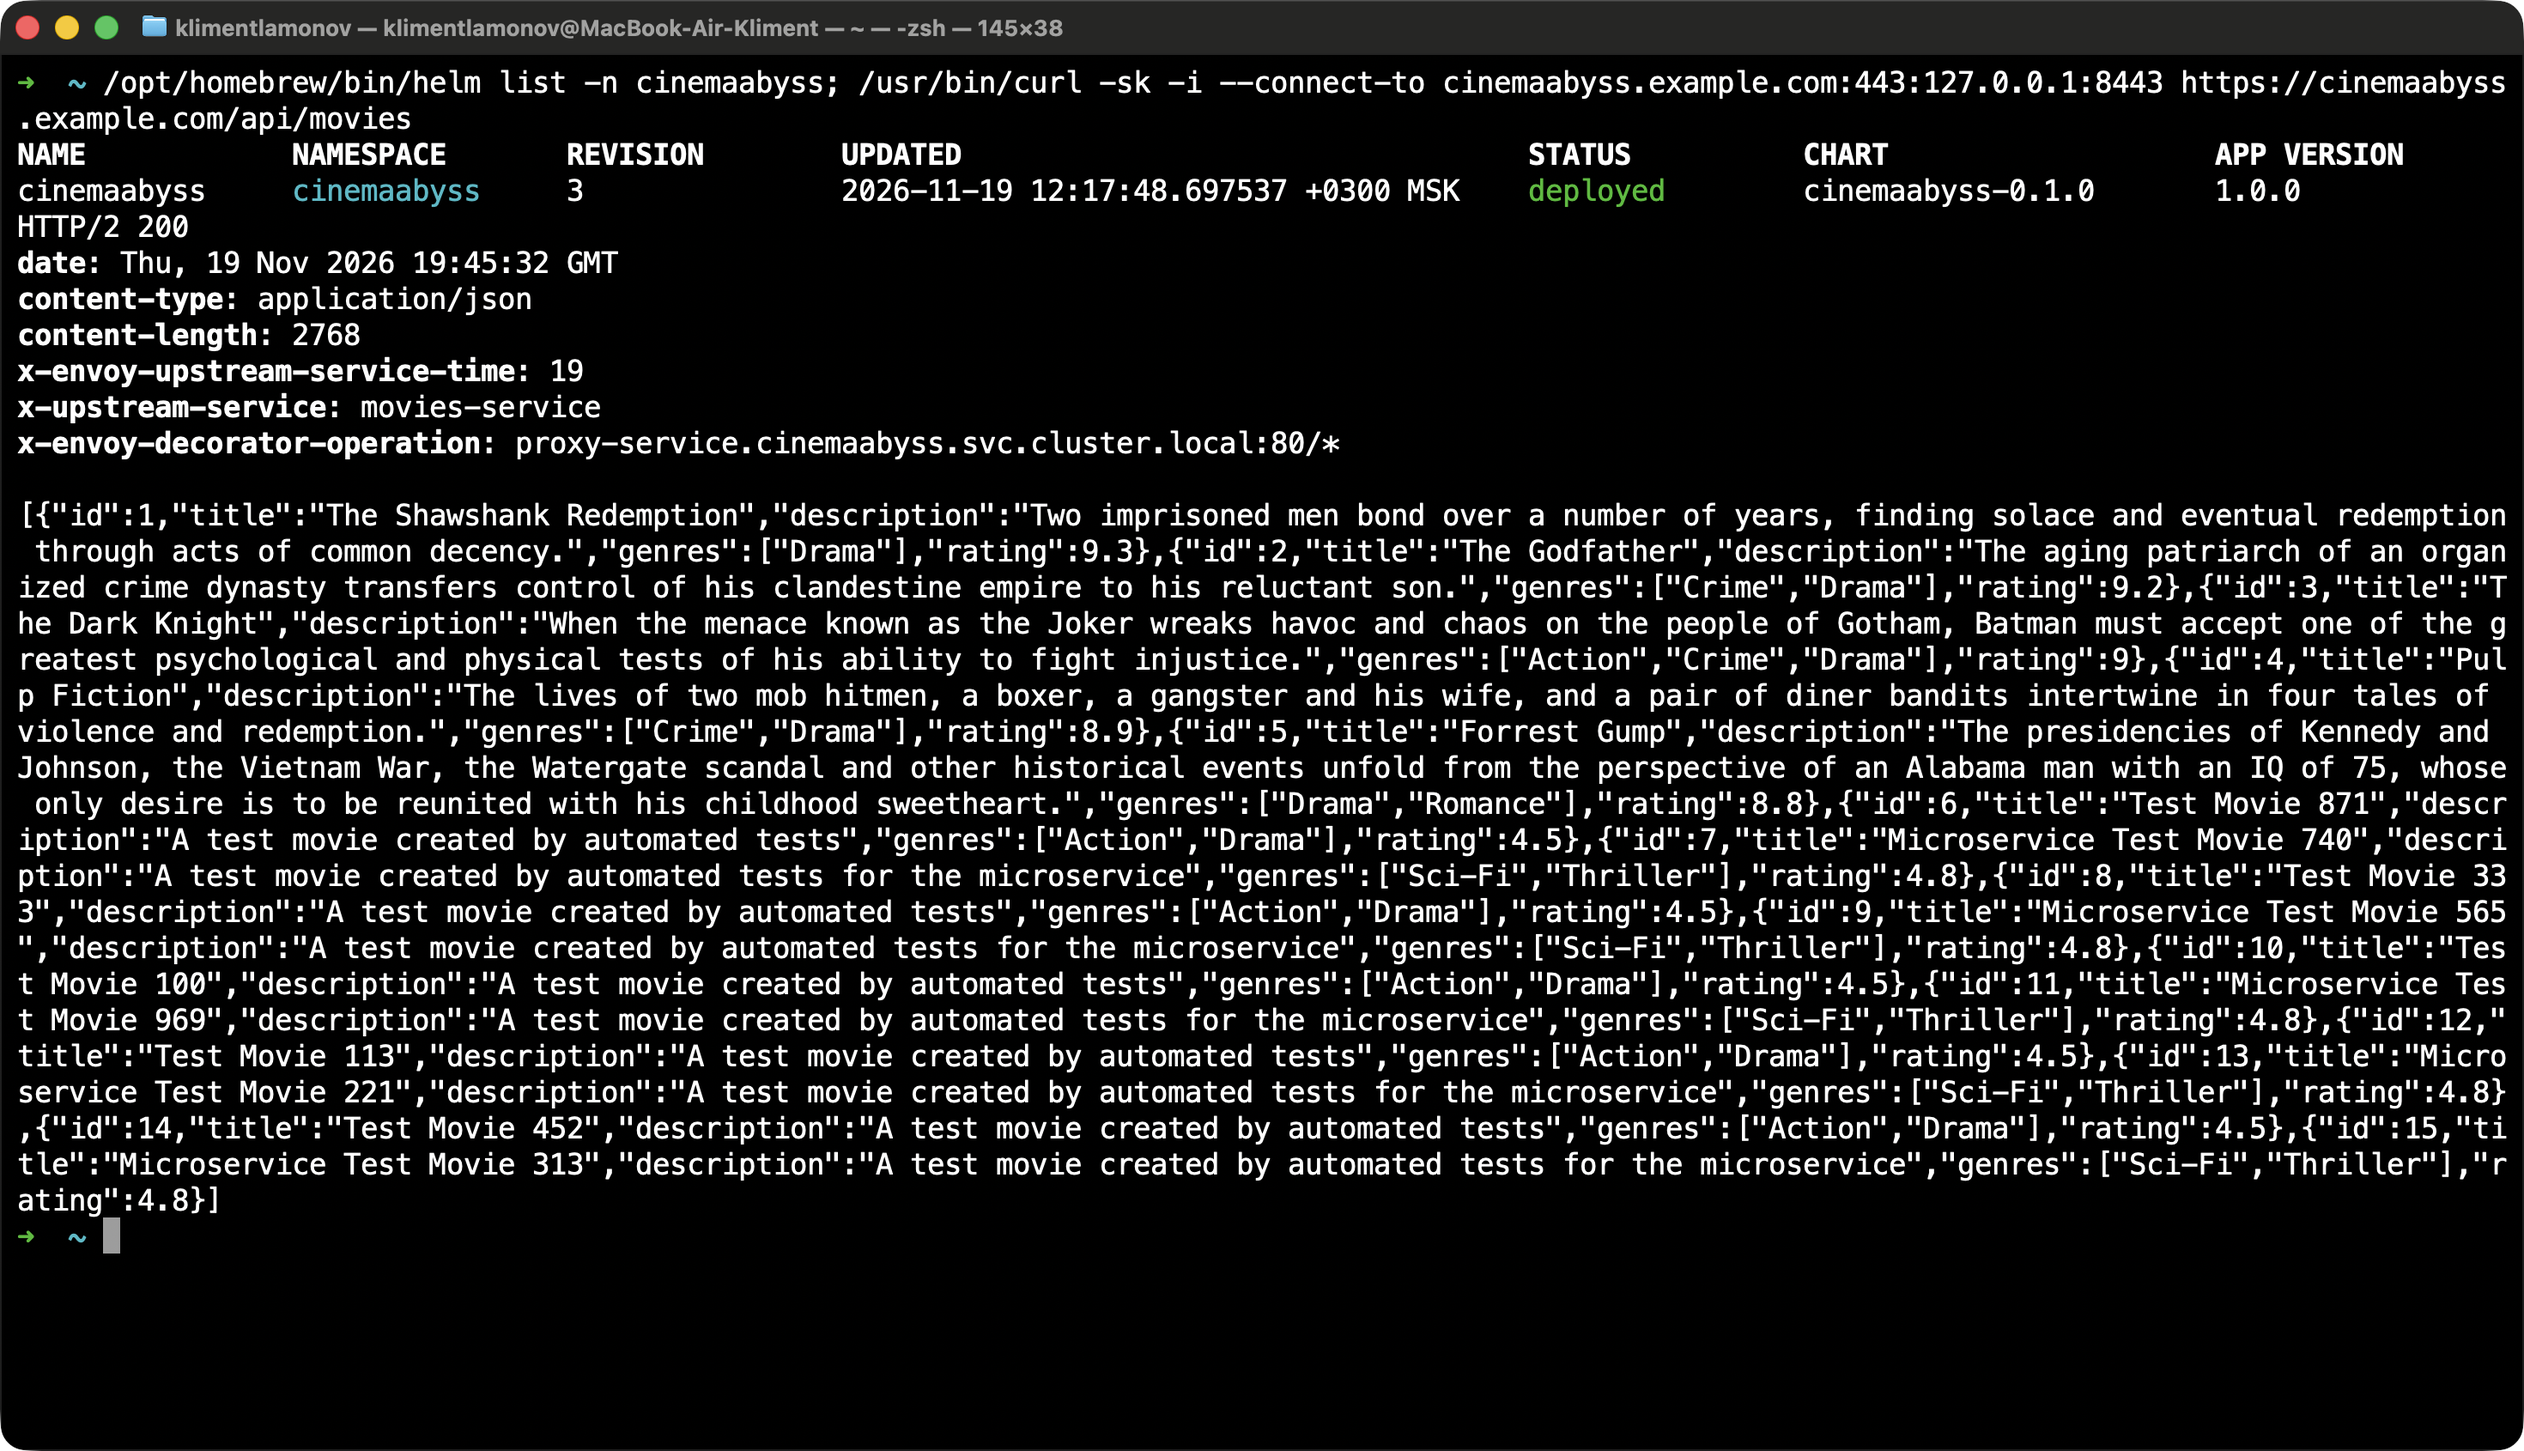
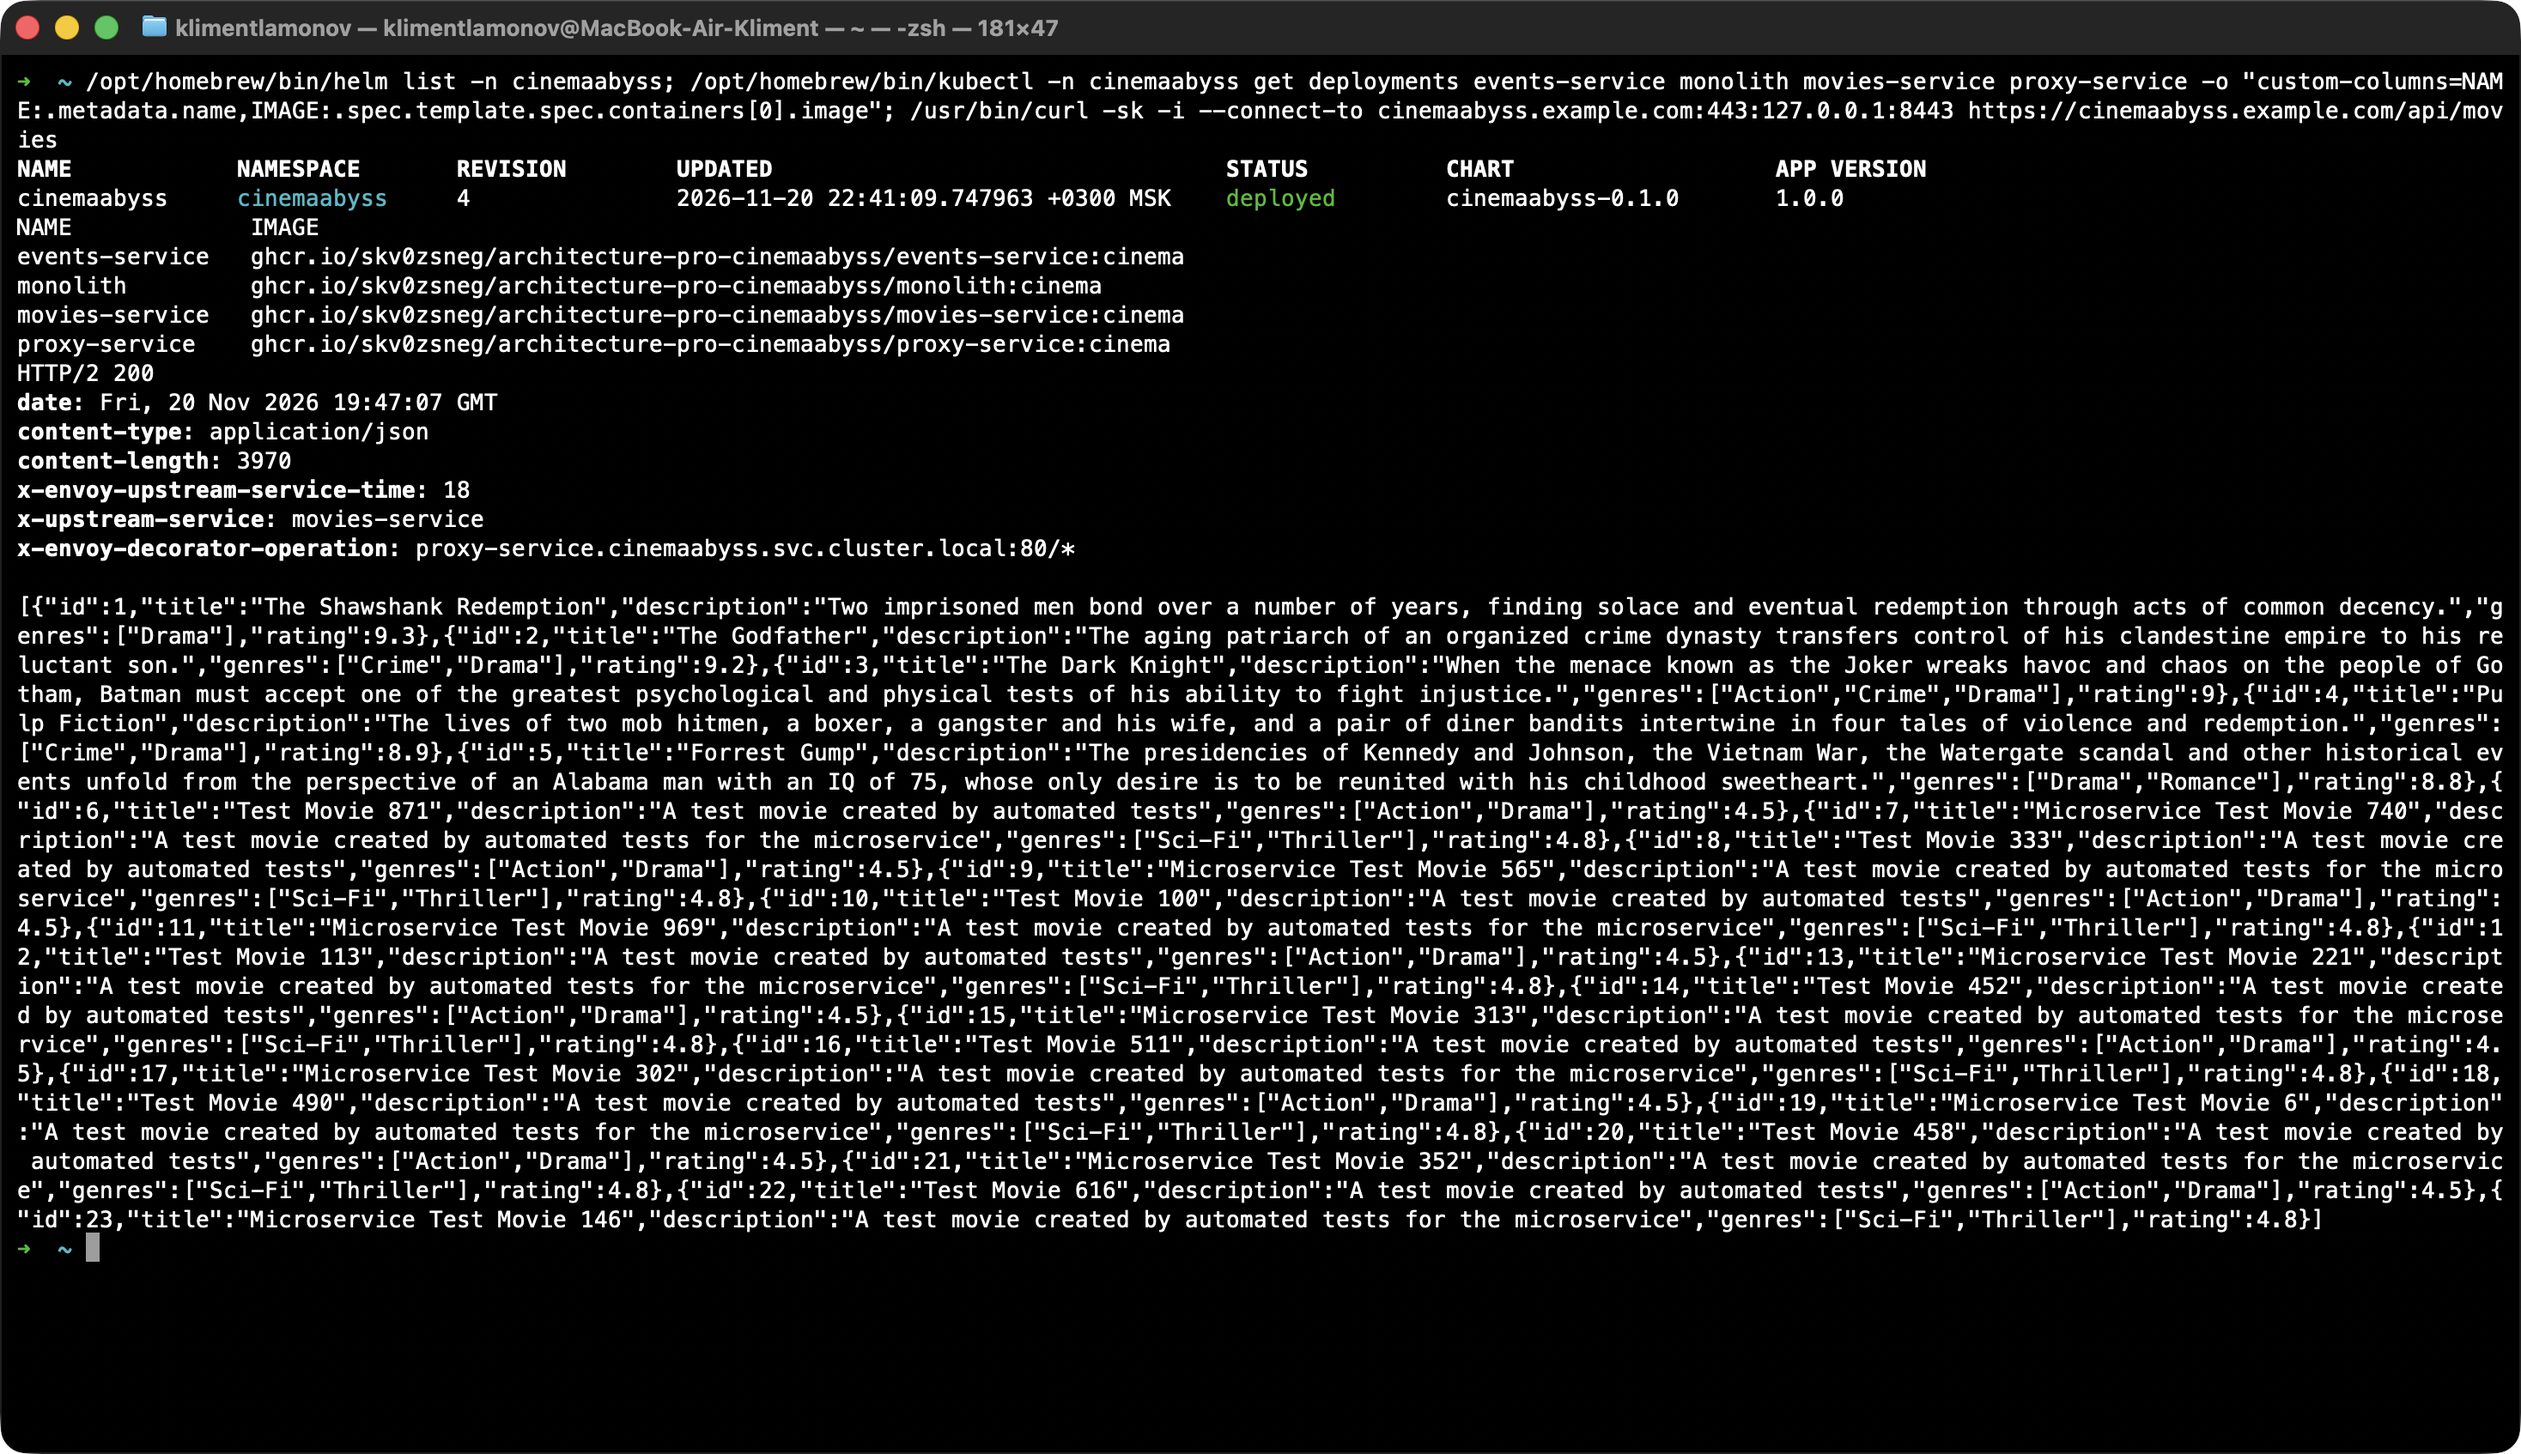
Fix image tags

Changed region(s): [[0.0, 0.0, 0.9918, 0.8615], [0.4649, 0.2769, 0.5269, 0.3077], [0.3099, 0.2769, 0.3719, 0.3077]]

diff --git a/Project_template.md b/Project_template.md
@@ -66,14 +66,18 @@ Postman (`npm run test:kubernetes` из `tests/postman`): **22 запроса, 4
 
 > **Комментарий** В существующих шаблонах namespace берётся из `.Release.Namespace`, чтобы работал параметр `--namespace`. Исправлен адрес `movies` на `movies-service`, добавлены параметры Events и Kafka. Registry secret стал необязательным, его имя настраивается отдельно; значения Secret заключены в кавычки. Checksum-аннотации нужны, чтобы изменение ConfigMap или Secret запускало rollout, а приложения получали новые переменные окружения.
 
+> **Комментарий** После замечания ревьюера тег четырёх приложений в Helm и Kubernetes заменён с `latest` на опубликованный `cinema`. CI в ветке `cinema` публикует тег ветки, а `latest` — только для `main` или релиза. Прежняя проверка на локально загруженных образах скрывала эту ошибку. Правильный адрес сервиса событий — `ghcr.io/skv0zsneg/architecture-pro-cinemaabyss/events-service:cinema`.
+
 ```bash
 helm upgrade --install cinemaabyss src/kubernetes/helm \
   --namespace cinemaabyss --create-namespace --wait --timeout 5m
 ```
 
-Проверена чистая установка после удаления ручного деплоя. Релиз — `deployed`, HTTPS возвращает фильмы, Postman — **42/42**.
+Повторная чистая установка в `cinemaabyss-review` проверена с загрузкой из GHCR (`Always`, без registry secret). Для параллельного стенда использованы отдельный домен и меньший резерв CPU. Релиз — `deployed`, HTTPS возвращает фильмы, Postman — **42/42**.
 
 ![Helm и HTTPS API](/screenshots/helm_movies.png)
+
+![Успешная загрузка четырёх образов из GHCR](/screenshots/ghcr_images.png)
 
 ## Задание 5
 
